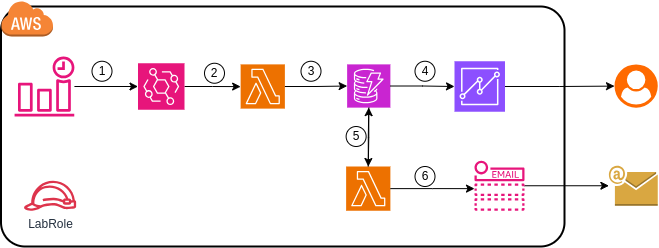
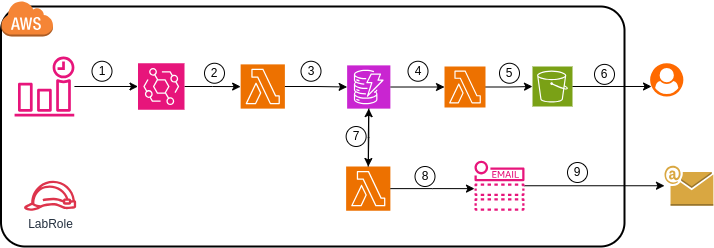
Step between final solution and use of quicksight

diff --git a/reports_lambda/main.py b/reports_lambda/main.py
@@ -1,0 +1,62 @@
+import boto3
+import matplotlib
+matplotlib.use('Agg')
+import matplotlib.pyplot as plt
+from matplotlib.backends.backend_pdf import PdfPages
+import datetime
+import io
+import os
+
+dynamodb = boto3.resource('dynamodb')
+s3 = boto3.client('s3')
+
+def lambda_handler(event, context):
+    table_name = os.environ['DYNAMODB_TABLE']
+    bucket_name = event['S3_BUCKET']
+    data = fetch_data(table_name)
+    pdf_buffer = generate_plots(data)
+    upload_to_s3(pdf_buffer, bucket_name)
+
+def fetch_data(table_name):
+    table = dynamodb.Table(table_name)
+    response = table.scan()
+    data = response['Items']
+
+    while 'LastEvaluatedKey' in response:
+        response = table.scan(ExclusiveStartKey=response['LastEvaluatedKey'])
+        data.extend(response['Items'])
+    
+    return data
+
+def generate_plots(data):
+    stations = {}
+    for item in data:
+        station = item['station']
+        timestamp = datetime.datetime.strptime(item['timestamp'], "%Y-%m-%dT%H:%M:%S%z")
+        pm10 = float(item['pm10'].strip(' mg/m³'))
+        
+        if station not in stations:
+            stations[station] = []
+        stations[station].append((timestamp, pm10))
+    
+    pdf_buffer = io.BytesIO()
+    with PdfPages(pdf_buffer) as pdf:
+        for station, values in stations.items():
+            values.sort()  
+            times, pm10_values = zip(*values)
+            plt.figure(figsize=(10, 6))
+            plt.plot(times, pm10_values, marker='o')
+            plt.title(f"PM10 Levels over Time for {station}")
+            plt.xlabel("Time")
+            plt.ylabel("PM10 (mg/m³)")
+            plt.grid(True)
+            plt.xticks(rotation=45)
+            plt.tight_layout()
+            pdf.savefig()
+            plt.close()
+    pdf_buffer.seek(0)  
+    return pdf_buffer
+
+def upload_to_s3(pdf_buffer, bucket_name):
+    s3.upload_fileobj(pdf_buffer, bucket_name, 'air_quality_report.pdf')
+
